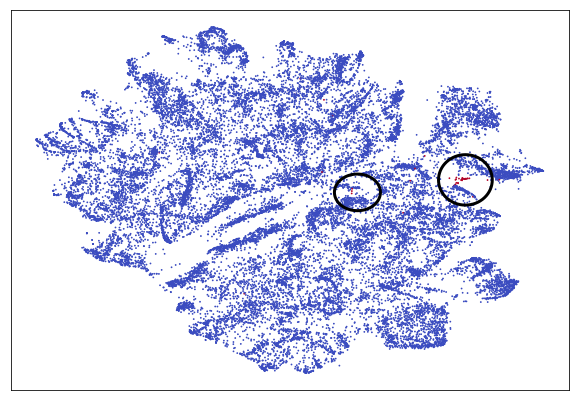
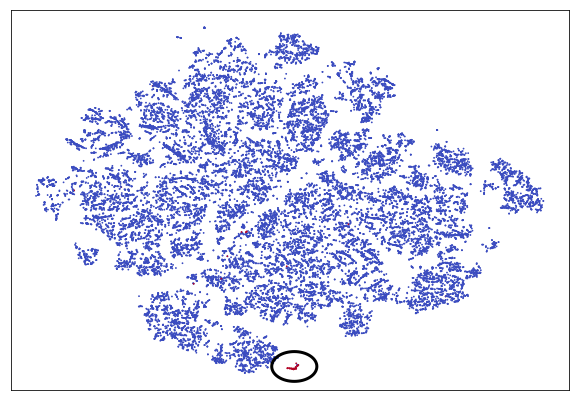
Added t-sne

diff --git a/Chapter 6.md b/Chapter 6.md
@@ -222,30 +222,108 @@ plt.show()
 
 Caption: Autoncoder reconstruction vs original data.
 
-As you can see, our model does a fine job at reconstructing the original values. The visual inspection gives more insight than the abstract number. 
+As you can see, our model does a fine job at reconstructing the original values. The visual inspection gives more insight than the abstract number.
+
+# Visualizing latent spaces with t-SNE 
+We now have a neural network that takes in a credit card transaction, and outputs a credit card transaction that looks more or less the same. But that is of course not why we built the autoecoder. The main advantage of an autoencoder is that we can now encode the transaction into a lower dimensional representation which captures the main elements of the transaction. To create the encoder model, all we have to do is to define a new Keras model, that maps from the input to the encoded state: 
 
 ```Python 
 encoder = Model(data_in,encoded)
 ```
 
+Note that you don't need to train this model again. The layers keep the weights from the autoencoder which we have trained before. 
+
+To encode our data, we now use the encoder model:
+
 ```Python 
 enc = encoder.predict(X_test)
 ```
 
+But how would we know if these encodings contain any meaningful information about fraud? Once again, visual representation is key. While our encodings are lower dimensional than the input data, they still have twelve dimensions. It is impossible for humans to think about twelve dimensional space, so we need to draw our encodings in a lower dimensional space while still preserving the characteristics we care about. 
+
+In our case, the characteristic we care about is _proximity_. We want points that are close to each other in the twelve dimensional space to be close to each other in the two dimensional plot. More precisely, we care about neighborhood, we want that the points that are closest to each other in the high dimensional space are also closest to each other in the low dimensional space. 
+
+Preserving neighborhood is relevant because we want to find clusters of fraud. If we find that fraudulent transactions form a cluster in our high dimensional encodings, we can use a simple check for if a new transaction falls into the fraud cluster to flag a transaction as fraudulent. 
+
+A popular method to project high dimensional data into low dimensional plots while preserving neighborhoods is called t-distributed stochastic neighbor embedding, or t-SNE. 
+
+In a nutshell, t-SNE aims to faithfully represent the probability that two points are neighbors in a random sample of all points. That is, it tries to find a low dimensional representation of the data in which points in a random sample have the same probability of being closest neighbors than in the high dimensional data. 
+
+
+
+![TSNE Info](./assets/tsne_info_one.png)
+Caption: How t-SNE measures similarity
+
+The t-SNE algorithm follows these steps:
+1. Calculate the _gaussian similarity_ between all points. This is done by calculating the euclidean (spatial) distance between points and the calculate the value of a gaussian curve at that distance, see graphic. The gaussian similarity for all points $j$ from point $i$ can be calculated as:
+
+$$p_{i|j} = \frac{exp(-||x_i-x_j||^2/2\sigma^2_i)}
+{\sum_{k \neq i} exp(-||x_i-x_k||^2/2\sigma^2_i)}$$
+
+Where $\sigma_i$ is the variance of the gaussian distribution. We will look at how to determine this variance later. Note that since the similarity between points $i$ and $j$ is scaled by the sum of distances between $i$ and all other points (expressed as $k$), the similarity between $i$ and $j$ ,$p_{i|j}$, can be different than the similarity between $j$ and $i$, $p_{j|i}$. Therefore, we average the two similarities to gain the final similarity which we work with going forward:
+
+$$p_{ij} = \frac{p_{i|j} + p_{j,i}}{2n}$$
+
+Where n is the number of datapoints.
+
+2. Randomly position the data points in the lower dimensional space.
+
+3. Calculate the _t-similarity_ between all points in the lower dimensional space. 
+
+$$q_{ij} = \frac{(1+||y_i - y_j||^2)^{-1}}
+{\sum_{k \neq l}(1+||y_k - y_l||^2)^{-1}}$$
+
+4. Just like in training neural networks, we will optimize the positions of the data points in the lower dimensional space by following the gradient of a loss function. The loss function in this case is the Kullback–Leibler (KL) divergence between the similarities in the higher and lower dimensional space. We will give the KL divergence a closer look in the section on variational autoencoders. For now, just think of it as a way to measure the difference between two distributions. The derivative of the loss function with respect to the position $y_i$ of a datapoint $i$ in the lower dimensional space is:
+
+$$\frac{d L}{dy_i} = 4 \sum{(p_{ij} − q_{ij})(y_i − y_j)}
+(1 + ||y_i − y_j||^2)^{-1}$$
+
+
+5. Adjust the data points in the lower dimensional space by using gradient descent. Moving points that were close in the high dimensional data closer together and moving points that were further away further from each other.
+
+$$y^{(t)} = y^{(t-1)} + \frac{d L}{dy} + \alpha(t) (y^{(t-1)} - y^{(t-2)})$$
+
+You will recognize this as a form of gradient descent with momentum, as the previous gradient is incorporated into the position update.
+
+The t-distribution used always has one degree of freedom. The choice of one degree of freedom leads to a simpler formula as well as some nice numerical properties that lead to faster computation and more useful charts.
+
+ The standard deviation of the gaussian distribution can be influenced by the user with a _perplexity_ hyperparameter. Perplexity can be interpreted as the number of neighbors we expect a point to have. A low perplexity value emphasizes local proximities while a large perplexity value emphasizes global perplexity values. Mathematically, perplexity can be calculated as 
+ 
+ $$Perp(P_i) = 2^{H(P_i)}$$
+
+Where $P_i$ is a probability distribution over the position of all data points in the dataset and $H(P_i)$ is the Shanon entropy of this distribution calculated as: 
+$$H(P_i) = - \sum{p_{j|i} log_2 p_{j|i}}$$
+
+While the details of this formula are not very relevant to using t-SNE, it is important to know that t-SNE performs a search over values of the standard deviation $\sigma$ so that it finds a global distribution $P_i$ for which the entropy over our data is our desired perplexity. In other words, you need to specify the perplexity by hand, but what that perplexity means for your dataset also depends on the dataset. 
+
+Van Maarten and Hinton, the inventors of t-SNE, report that the algorithm is relatively robust to choices of perplexity between five and 50. The default value in most libraries is 30, which is a fine value for most datasets. If you find that your visualizations are not satisfactory, tuning the perplexity value is probably the first thing you want to do.
+
+For all the math involved, using t-SNE is suprisingly simple. Scikit Learn has a handy t-SNE implementation which we can use just like any algorithm in scikit. We first import the `TSNE` class. Then we create a new `TSNE` instance. We define that we want to train for 5000 epochs, use the default perplexity of 30 and the default learning rate of 200. We also specify that we would like output during the training process. We then just call `fit_transform` which transforms our twelve dimensional encodings into two dimensional projections.
+
 ```Python 
 from sklearn.manifold import TSNE
-tsne = TSNE(verbose=1,n_iter=300)
+tsne = TSNE(verbose=1,n_iter=5000)
 res = tsne.fit_transform(enc)
 ```
 
+As a word of warning, t-SNE is quite slow as it needs to compute the distances between all the points. By default, sklearn uses a faster version of t-SNE called Barnes Hut approximation, which is not as precise but significantly faster already. 
+
+There is a faster python implementation of t-SNE which can be used as a drop in replacement of sklearn's implementation. It is not as well documented however and has fewer features. You can find the faster implementation with installation instructions under the following URL:
+https://github.com/DmitryUlyanov/Multicore-TSNE 
+
+We can plot our t-SNE results as a scatter plot. For illustration, we will distinguish frauds from non frauds by color, with frauds being plotted in red and non frauds being plotted in blue. Since the actual values of t-SNE do not matter as much we will hide the axis.
 ```Python 
 fig = plt.figure(figsize=(10,7))
-scatter =plt.scatter(res[:,0],res[:,1],c=y_test,cmap='coolwarm', s=0.6)
+scatter =plt.scatter(res[:,0],res[:,1],c=y_test, cmap='coolwarm', s=0.6)
 scatter.axes.get_xaxis().set_visible(False)
 scatter.axes.get_yaxis().set_visible(False)
 ```
 
 ![Credit Auto TSNE](./assets/credit_auto_tsne.png)
+
+For easier spotting the cluster containing most frauds is marked with a circle. You can see that the frauds nicely separate from the rest of the transactions. Clearly, our autoencoder has found a way to distinguish frauds from genuine transaction without being given labels. This is a form of unsupervised learning. In fact, plain autoencoders perform an approximation of PCA, which is useful for unsupervised learning. In the chart you can see a few more clusters which are clearly separate from the other transactions but which are not frauds. Using autoencoders and unsupervised learning it is possible to separate and group our data in ways we did not even think about as much before. For example we might be able to cluster transactions by purchase type.
+
+Using our autoencoder, we could now use the encoded information as features for a classifier. But even better, with only a slight modification of the autoencoder, we can generate more data that has the underlying properties of a fraud case while having different features. This is done with a variational autoencoder which we will look at in the next section.
 
 # Variational Autoencoders
 
